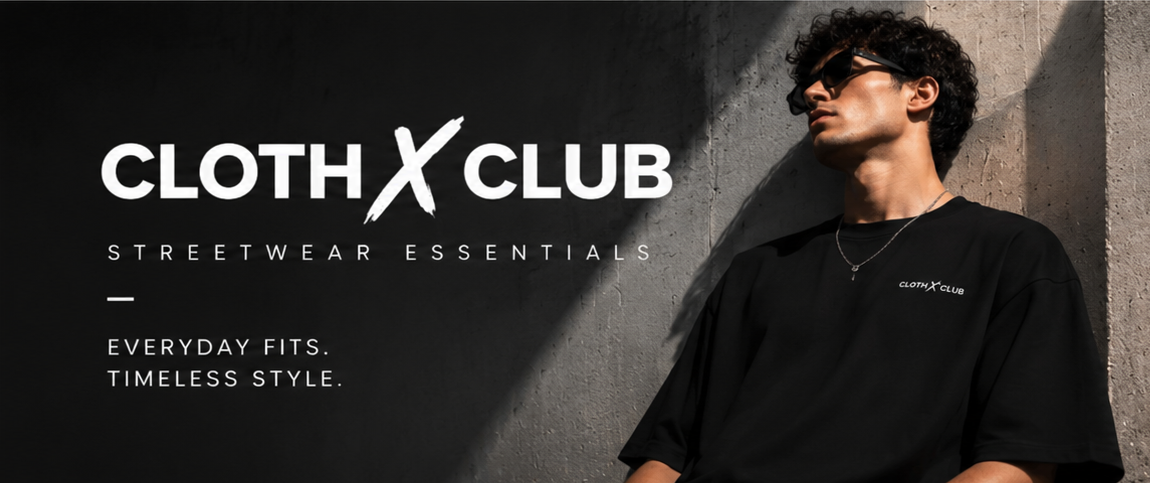
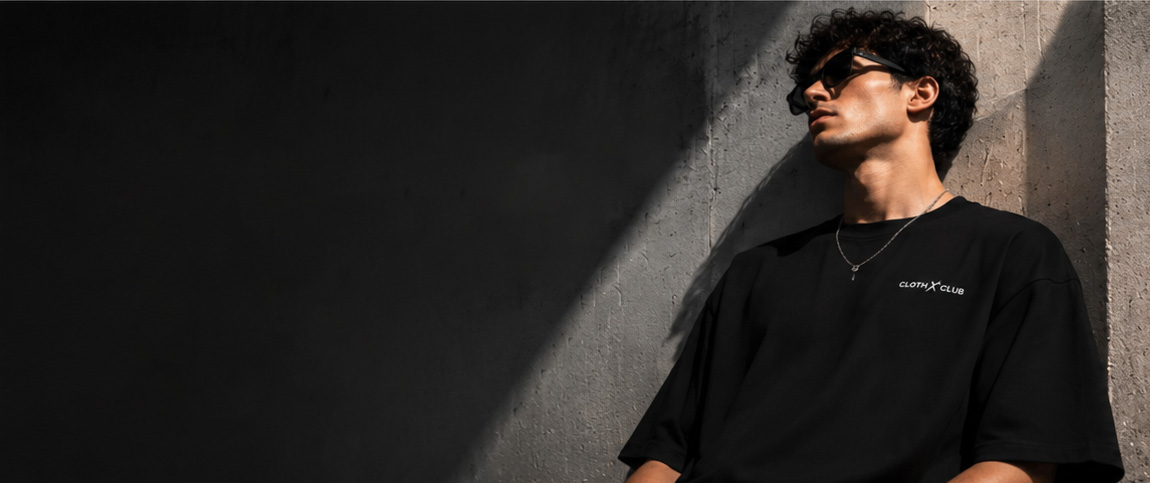
new pages added

diff --git a/index.html b/index.html
@@ -23,9 +23,9 @@
 <nav class="mobile-menu" id="mobile-menu" data-mobile-menu aria-label="Mobile navigation" aria-hidden="true"><a href="index.html">Home</a><a href="shop.html">Shop all</a><a href="blog.html">Journal</a><a href="info.html">About & Support</a><a href="shipping.html">Shipping</a><a href="returns.html">Returns</a></nav>
 
 <main id="main-content">
-<section class="hero"><img class="hero-media" src="Layout/data/assets/hero/hero-banner.jpg" alt="CLOTH X CLUB contemporary streetwear campaign" fetchpriority="high" onerror="this.style.display='none'"><div class="hero-content"><div class="eyebrow">STREETWEAR ESSENTIALS · EVERYDAY FITS</div><h1>Wear your<br>own lane.</h1><p>Easy silhouettes. Considered details. Everyday pieces made to move with your style, not dictate it.</p><a class="btn btn-light" href="shop.html">Shop the collection</a></div></section>
+<section class="hero"><img class="hero-media" src="Layout/data/assets/hero/hero-main.jpg" alt="CLOTH X CLUB contemporary streetwear campaign" fetchpriority="high" onerror="this.style.display='none'"><div class="hero-content"><div class="eyebrow">STREETWEAR ESSENTIALS · EVERYDAY FITS</div><h1>Wear your<br>own lane.</h1><p>Easy silhouettes. Considered details. Everyday pieces made to move with your style, not dictate it.</p><a class="btn btn-light" href="shop.html">Shop the collection</a></div></section>
 <section class="section" id="shop-collection"><div class="container"><div class="section-heading"><div><span class="eyebrow">The CLOTH X CLUB collection</span><h2>Shop all pieces</h2></div><p>Every product shown here is loaded from the live product catalogue. Open a piece to view its full image gallery, sizes, colours and details.</p></div><div class="products-grid home-products-grid" data-home-products><p class="home-products-loading">Loading the collection…</p></div><div class="home-products-footer"><a class="btn btn-outline-dark" href="shop.html">View all products</a></div></div></section>
-<section class="section"><div class="container"><div class="editorial-banner"><div class="editorial-copy"><span class="eyebrow">A point of view, not a uniform</span><h2>Style starts<br>with comfort.</h2><p>From relaxed proportions to familiar essentials, CLOTH X CLUB is about getting dressed without overthinking it. Find the pieces, make them yours, and wear them your way.</p><a class="btn btn-light" href="shop.html">Explore the edit</a></div><img src="Layout/data/assets/hero/editorial-banner.jpg" alt="CLOTH X CLUB editorial streetwear look" loading="lazy"></div></div></section>
+<section class="section"><div class="container"><div class="editorial-banner"><div class="editorial-copy"><span class="eyebrow">A point of view, not a uniform</span><h2>Style starts<br>with comfort.</h2><p>From relaxed proportions to familiar essentials, CLOTH X CLUB is about getting dressed without overthinking it. Find the pieces, make them yours, and wear them your way.</p><a class="btn btn-light" href="shop.html">Explore the edit</a></div><img src="Layout/data/assets/hero/brand-banner.jpg" alt="CLOTH X CLUB editorial streetwear look" loading="lazy"></div></div></section>
 <section class="section"><div class="container"><div class="section-heading"><div><span class="eyebrow">Notes from the club</span><h2>Style journal</h2></div><a href="blog.html" class="btn btn-outline-dark">Read the journal</a></div><div class="blog-grid" data-home-blog></div></div></section>
 </main>
 <section class="newsletter"><span class="eyebrow">THE CLOTH X CLUB LETTER</span><h2>Good fits. No noise.</h2><p>Get occasional notes on new drops, styling ideas and what is happening at the club.</p><form data-newsletter-form><label class="sr-only" for="newsletter-email">Email address</label><input id="newsletter-email" type="email" placeholder="Your email address" required><button type="submit">Join the list</button></form></section>
